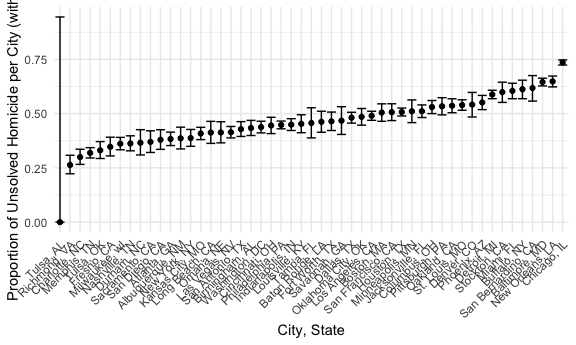
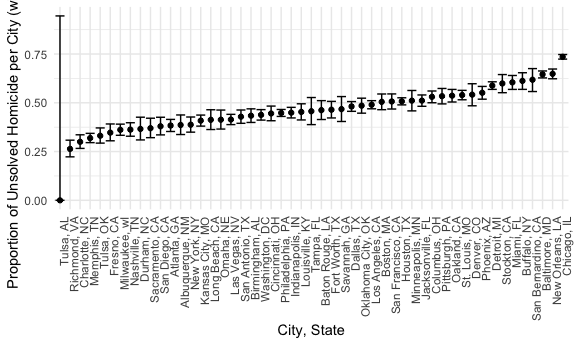
Problem 3 - plot adjustment

diff --git a/p8105_hw5_msp2210.md b/p8105_hw5_msp2210.md
@@ -303,7 +303,7 @@ homicide_data %>%
     x = "City, State",
     y = "Proportion of Unsolved Homicide per City (with 95% CI)"
   ) +
-  theme(axis.text.x = element_text(angle = 45, hjust = 1, vjust = 1))
+  theme(axis.text.x = element_text(angle = 90, hjust = 1, vjust = 1))
 ```
 
     ## Warning: There was 1 warning in `mutate()`.
